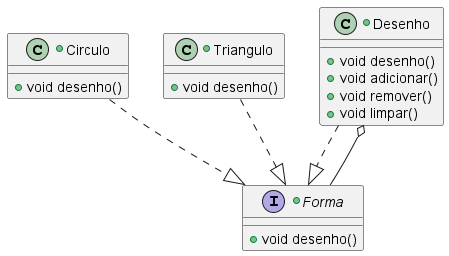
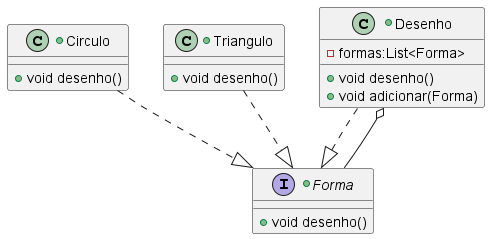
composite

diff --git a/Padroes/Composite/AntiPattern/src/Triangulo.java b/Padroes/Composite/AntiPattern/src/Triangulo.java
@@ -1,14 +1,6 @@
 public class Triangulo implements Forma{
     @Override
-	public void desenho(String corDesenho) {
-		System.out.println("Desenho de triângulo com cor "+corDesenho);
-	}    
-
-    public void adicionar(){
-        System.out.println("Triângulo adicionado.");
-    }
-
-    public void remover(){
-        System.out.println("Triângulo removido.");
-    }
+	public void desenho(String desenho) {
+		System.out.println("Desenho de triângulo.");
+	}
 }

diff --git a/Padroes/Composite/AntiPattern/src/Circulo.java b/Padroes/Composite/AntiPattern/src/Circulo.java
@@ -1,14 +1,6 @@
 public class Circulo implements Forma{
     @Override
-	public void desenho(String corDesenho) {
-		System.out.println("Desenho de círculo com cor "+corDesenho);
+	public void desenho(String desenho) {
+		System.out.println("Desenho de círculo");
 	}
-
-    public void adicionar(){
-        System.out.println("Círculo adicionado.");
-    }
-
-    public void remover(){
-        System.out.println("Círculo removido.");
-    }
 }

diff --git a/Padroes/Composite/AntiPattern/src/Desenho.java b/Padroes/Composite/AntiPattern/src/Desenho.java
@@ -1,0 +1,15 @@
+import java.util.ArrayList;
+import java.util.List;
+
+public class Desenho {
+    private List<Triangulo> triangulos = new ArrayList<Triangulo>();
+    private List<Circulo> circulos = new ArrayList<Circulo>();
+
+    public void adicionarTriangulo(Triangulo triangulo){
+        this.triangulos.add(triangulo);    
+    }
+
+    public void adicionarCirculo(Circulo circulo){
+        this.circulos.add(circulo);  
+    }
+}
